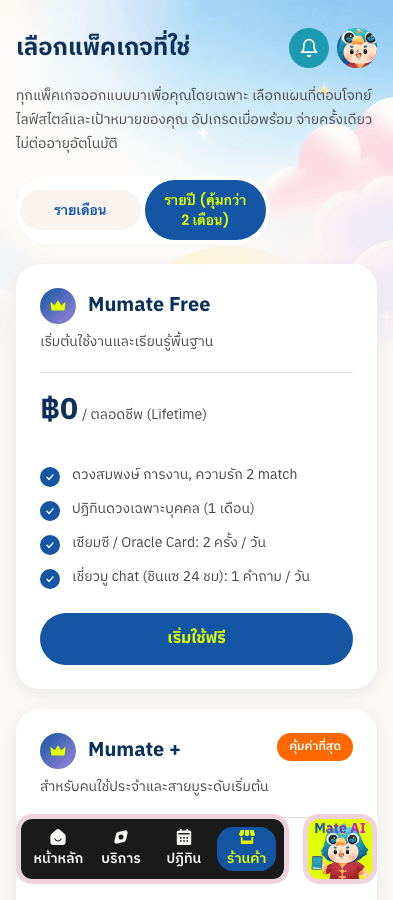
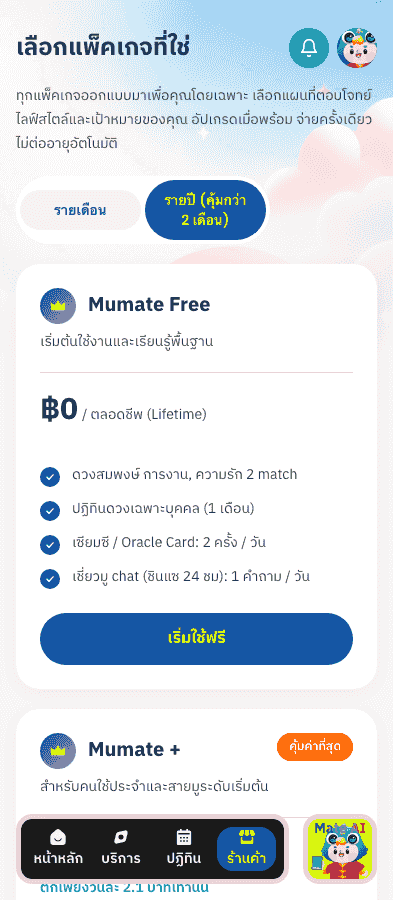
feat(#359): ต่อกับแพ็กจริงของ #377 — B2/B3/B4 ปลดล็อกครบ
rebase มาบน #377 แล้วพบว่าโจทย์เปลี่ยน: tier ย้ายจาก map ในโค้ดไปอยู่ใน
payment_package.tier_code และมีแพ็กจริง 4 แถว (lib/db/0009_package_tier.sql:97-100)

  V2_PLUS_YEARLY   ฿790    1Y  PLUS  is_active=true
  V2_PRO_YEARLY    ฿1,590  1Y  PRO   is_active=true
  V2_PLUS_MONTHLY  ฿0      1M  PLUS  is_active=false
  V2_PRO_MONTHLY   ฿0      1M  PRO   is_active=false

⇒ B2 (การ์ด Pro ไม่มี code) · B3 (ไม่มีคู่ month/year) · B4 (ไม่มีราคาจริง) จบทั้งสามข้อ
  และราคารายปีคือเลขเดียวกับที่ดีไซน์วาดไว้เป๊ะ — "ตกเพียงวันละ 4.3 บาท" ของ Pro
  คำนวณจาก 1590/365 ได้ 4.3 ตรงกับที่ดีไซน์เขียน

🔴 "ซื้อได้ไหม" กลายเป็น RUNTIME fact — จอต้องอ่าน is_active
  V2_*_MONTHLY มี amount = 0 ⇒ จอที่ดูแต่ตัวเลขจะพิมพ์ "฿0 / เดือน" ให้ของที่
  quotePackage ปฏิเสธตั้งแต่ก่อนคิดราคา (catalog.ts:74-76) = โฆษณาของที่ซื้อไม่ได้
  ⇒ usePackagePrice เพิ่มสถานะ `offSale` แยกจาก missing/error
  ⇒ ลิงก์ checkout ผูกกับ price.kind === 'ready' ❌ ไม่ใช่กับการมี package_code

🔴 SEMANTIC CONFLICT ที่ git มองไม่เห็น
  rebase ผ่านสะอาด (คนละไฟล์) และ `tsc --noEmit` เขียว — แต่เทสต์ผม import
  PACKAGE_TIER ที่ #377 ลบทิ้งไปแล้ว · tsc เขียวเพราะ tsconfig exclude scripts/
  ซึ่งคือใบ #351 พอดี ⇒ ตัวเดียวที่จับได้คือ `npm test`
  ⇒ MS5 เขียนใหม่ให้อ่าน migration ตรงๆ (แหล่งเดียวกับที่ DB ถูกสร้าง) ❌ ไม่ใช่ fixture
     + ตัวอ่านเองก็เป็นด่าน: ถ้า parse ได้ 0 แถว ทุก assert ข้างล่างจะผ่านเหนือของว่าง
     ⚠ regex รอบแรกใช้ [^)] แล้วพังเพราะ description มีวงเล็บ ('Mumate + (รายปี)')
[…]

diff --git a/scripts/shop-package-mapping.test.ts b/scripts/shop-package-mapping.test.ts
@@ -21,7 +21,35 @@ import {
   checkoutHrefFor,
   type BillingPeriod,
 } from '@/features/v2-shop/packages'
-import { PACKAGE_TIER } from '@/lib/payment/catalog'
+import { readFileSync } from 'node:fs'
+import { join } from 'node:path'
+
+// 📌 #377 moved tiers out of a hardcoded PACKAGE_TIER map and into payment_package.tier_code, so there is
+// no longer a constant to import. The money-lane fact now lives in the MIGRATION, and that is what this
+// spec reads — the same source the DB is built from. It is deliberately not a fixture: a fixture would
+// freeze today's rows and stop biting the day someone edits the migration.
+//
+// 🔴 This was a SEMANTIC conflict, not a textual one: the rebase onto #377 merged cleanly (different
+// files) and `tsc --noEmit` stayed green — because tsconfig excludes scripts/ (see mootech-fe#351). The
+// only thing that caught the broken import was `npm test`.
+const MIGRATION = readFileSync(join(process.cwd(), 'lib/db/0009_package_tier.sql'), 'utf8')
+
+/** package_code → tier_code, read out of the INSERT … VALUES block of 0009. */
+function migrationRows(): Map<string, { tier: string; active: boolean }> {
+  const rows = new Map<string, { tier: string; active: boolean }>()
+  // Line-based on purpose: each VALUES row is one line, and the `description` column contains parentheses
+  // ('Mumate + (รายปี)'), which makes any `[^)]` span stop in the wrong place. Caught by this spec's own
+  // "the parser is a gate too" assertion rather than by a wrong answer.
+  for (const line of MIGRATION.split('\n')) {
+    const code = /'(V2_[A-Z0-9_]+)'/.exec(line)?.[1]
+    if (!code) continue
+    const tier = /'(FREE|PLUS|PRO)'/.exec(line)?.[1]
+    const active = /,\s*(true|false)\s*\)/.exec(line)?.[1]
+    if (!tier || !active) continue
+    rows.set(code, { tier, active: active === 'true' })
+  }
+  return rows
+}
 
 const PERIODS: BillingPeriod[] = ['monthly', 'annual']
 const planBy = (id: string) => {
@@ -48,8 +76,10 @@ describe('#359 shop plan catalogue', () => {
   // MS1 — swapping two cards' codes must redden. Asserting a per-plan expected code (not "all codes are
   // distinct"): distinctness survives a swap, which is exactly the bug the ticket asks the mutant to catch.
   it('each plan keeps its OWN package_code', () => {
-    expect(codeFor(planBy('plus'), 'monthly')).toBe('MONTHLY')
-    expect(codeFor(planBy('pro'), 'monthly')).not.toBe('MONTHLY')
+    expect(codeFor(planBy('plus'), 'annual')).toBe('V2_PLUS_YEARLY')
+    expect(codeFor(planBy('pro'), 'annual')).toBe('V2_PRO_YEARLY')
+    expect(codeFor(planBy('plus'), 'monthly')).toBe('V2_PLUS_MONTHLY')
+    expect(codeFor(planBy('pro'), 'monthly')).toBe('V2_PRO_MONTHLY')
     expect(codeFor(planBy('free'), 'monthly')).toBeNull()
   })
 
@@ -66,9 +96,9 @@ describe('#359 shop plan catalogue', () => {
   // MS3 — the href must carry the code the card sells, url-encoded.
   it('a sellable card links to checkout carrying its own code', () => {
     const plus = planBy('plus')
-    const href = checkoutHrefFor(plus, 'monthly')
-    expect(href).toBe('/v2/shop/checkout?package_code=MONTHLY')
-    expect(href).toContain(codeFor(plus, 'monthly') as string)
+    const href = checkoutHrefFor(plus, 'annual')
+    expect(href).toBe('/v2/shop/checkout?package_code=V2_PLUS_YEARLY')
+    expect(href).toContain(codeFor(plus, 'annual') as string)
   })
 
   // MS4 — "no code yet" must not read as sellable. Today this is Pro (#359 B2) and every annual code
@@ -87,20 +117,36 @@ describe('#359 shop plan catalogue', () => {
     expect(checked, 'no not-yet-sellable combination was exercised').toBeGreaterThan(0)
   })
 
-  // MS5 — the screen must never advertise a code the money lane refuses to sell.
-  it('every package_code the screen sells is one lib/payment/catalog.ts can map', () => {
-    let sold = 0
+  // MS5 — the screen must never advertise a package_code that does not exist in the DB, or one whose tier
+  // is not a paid tier. Either would throw UnsellablePackageError at lib/payment/catalog.ts:78-81 — i.e.
+  // the user taps, and the failure happens at the till.
+  it('every package_code the screen declares exists in the migration with a paid tier', () => {
+    const rows = migrationRows()
+    // The parser is a gate too: if it matched nothing, every assertion below would pass over zero items.
+    expect(rows.size, 'อ่านแถวจาก 0009_package_tier.sql ไม่ได้เลย — ตัวอ่านพัง ไม่ใช่ข้อมูลว่าง').toBe(4)
+
+    let declared = 0
     for (const p of PLANS) {
       for (const period of PERIODS) {
         const code = codeFor(p, period)
         if (code === null) continue
-        sold++
-        expect(
-          PACKAGE_TIER[code],
-          `${p.id}/${period} sells ${code}, which catalog.ts cannot map — quotePackage would throw`,
-        ).toBeDefined()
+        declared++
+        const row = rows.get(code)
+        expect(row, `${p.id}/${period} sells ${code}, which 0009 never inserts`).toBeDefined()
+        expect(row!.tier, `${code} has tier ${row!.tier} — not a paid tier`).not.toBe('FREE')
       }
     }
-    expect(sold, 'no sellable code was exercised — this gate answered over zero items').toBeGreaterThan(0)
+    expect(declared, 'no declared code was exercised — this gate answered over zero items').toBeGreaterThan(0)
+  })
+
+  // 🔴 The screen must not decide "buyable" from this file alone. is_active is flipped from /ops without a
+  // deploy (#377), so it is a RUNTIME fact — asserted here only to record which rows ship switched off, so
+  // that a migration change that silently turns the monthly pair on is visible in a diff.
+  it('บันทึกไว้ว่าแถวไหน ship มาแบบปิดขาย — และจอต้องไม่ตัดสินจากไฟล์นี้', () => {
+    const rows = migrationRows()
+    expect(rows.get('V2_PLUS_YEARLY')?.active, 'รายปี PLUS ควรเปิดขาย').toBe(true)
+    expect(rows.get('V2_PRO_YEARLY')?.active, 'รายปี PRO ควรเปิดขาย').toBe(true)
+    expect(rows.get('V2_PLUS_MONTHLY')?.active, 'รายเดือน PLUS ship มาแบบปิดขาย').toBe(false)
+    expect(rows.get('V2_PRO_MONTHLY')?.active, 'รายเดือน PRO ship มาแบบปิดขาย').toBe(false)
   })
 })

diff --git a/features/v2-shop/packages.ts b/features/v2-shop/packages.ts
@@ -5,11 +5,21 @@
 // time (`pages/api/payment-package.ts:12-14` — WHERE package_code = $code LIMIT 1); there is no list
 // endpoint, so the screen must know which codes to ask for. Codes are identity, not price.
 //
-// 🔴 A plan with no sellable code is NOT hidden and NOT silently broken — it renders with
-// `sellable: false` and the card refuses to send the user to checkout (see PackageCard). Reason:
-// `lib/payment/catalog.ts:35-43` maps every code that exists today to 'PLUS'; nothing maps to 'PRO', and
-// `catalog.ts:79-82` throws UnsellablePackageError for an unmapped code. Wiring the Pro card to checkout
-// today would charge the user's tap into a guaranteed error. Blocked on mootech-fe#359 (B2, ฟีม's call).
+// 🔴 A plan with no sellable code is NOT hidden and NOT silently broken — it renders, it says why, and the
+// card refuses to send the user to checkout (see PackageCard). `quotePackage` refuses a package that is
+// `is_active = false` BEFORE pricing it (lib/payment/catalog.ts:74-76) and refuses one whose tier is not a
+// paid tier (`:78-81`) — both throw UnsellablePackageError, i.e. a failure at the till, after the user
+// believed they were buying. The screen must not lead anyone there.
+//
+// 📌 UPDATED after #377 merged (2026-08-22): tiers moved OUT of a hardcoded map and into
+// `payment_package.tier_code`, and four real v2 rows landed (lib/db/0009_package_tier.sql:94-104):
+//     V2_PLUS_YEARLY   ฿790   1Y  PLUS  is_active=true
+//     V2_PRO_YEARLY   ฿1590   1Y  PRO   is_active=true
+//     V2_PLUS_MONTHLY    ฿0   1M  PLUS  is_active=false
+//     V2_PRO_MONTHLY     ฿0   1M  PRO   is_active=false
+// ⇒ B2 is unblocked: the Pro card HAS a sellable code now, and the annual prices are the design's own
+//   ฿790 / ฿1,590. The monthly pair exists but is switched off and priced at 0 — the screen must read
+//   `is_active`, or it would advertise "฿0 / เดือน" for something nobody can buy.
 //
 // 🔴 Names: ฟีม decided 2026-08-21 — the SCREEN says `Mumate +` / `Mumate Pro` everywhere, including the
 // button. The Figma buttons say `PLUS` / `PRO`; we deliberately diverge (recorded in the PR's
@@ -39,9 +49,10 @@ export type Plan = {
   badge?: { label: string; tone: 'pumpkin' | 'error' }
 }
 
-// ⚠ MONTHLY is the only code `lib/payment/catalog.ts` sells today. The annual/monthly split and the Pro
-// codes are marketing's call (#359 B3/B4). Adding them here is a one-line change per plan — the mapping
-// test (scripts/shop-package-mapping.test.ts) keeps its teeth either way.
+// The codes below must exist in payment_package with a paid tier — scripts/shop-package-mapping.test.ts
+// asserts that against the migration itself, so a typo here reddens `npm test` rather than reaching a user.
+// Whether a code is CURRENTLY on sale is a DB fact that changes from /ops without a deploy (#377) ⇒ the
+// screen reads it at runtime from /api/payment-package, never from this file.
 export const PLANS: readonly Plan[] = [
   {
     id: 'free',
@@ -65,7 +76,7 @@ export const PLANS: readonly Plan[] = [
       'เชี่ยวมู chat (ชินแซ 24 ชม): 5 คำถาม / วัน',
       'เซียมซี / Oracle Card: 10 ครั้ง / วัน',
     ],
-    codes: { monthly: 'MONTHLY', annual: null },
+    codes: { monthly: 'V2_PLUS_MONTHLY', annual: 'V2_PLUS_YEARLY' },
     badge: { label: 'คุ้มค่าที่สุด', tone: 'pumpkin' },
   },
   {
@@ -79,7 +90,7 @@ export const PLANS: readonly Plan[] = [
       'ปฏิทินดวงเฉพาะบุคคล ไม่จำกัด (Unlimited)',
       'เชี่ยวมู chat (ชินแซ 24 ชม): ไม่จำกัด (Unlimited)',
     ],
-    codes: { monthly: null, annual: null },
+    codes: { monthly: 'V2_PRO_MONTHLY', annual: 'V2_PRO_YEARLY' },
     badge: { label: 'แนะนำ 🔥', tone: 'error' },
   },
 ]

diff --git a/features/v2-shop/components/PackageCard.tsx b/features/v2-shop/components/PackageCard.tsx
@@ -74,7 +74,11 @@ export function PackageCard({
 }) {
   const code = codeFor(plan, period)
   const price = usePackagePrice(plan.id === 'free' ? null : code)
-  const href = checkoutHrefFor(plan, period)
+  // 🔴 "Can this be bought?" is a RUNTIME fact after #377: a package_code exists in this file, but whether
+  // it is on sale lives in payment_package.is_active and is flipped from /ops without a deploy. So the link
+  // needs BOTH — a declared code AND a server row that is actually ready. Deciding from the code alone
+  // would send a tap into UnsellablePackageError('not on sale') at lib/payment/catalog.ts:74-76.
+  const href = price.kind === 'ready' ? checkoutHrefFor(plan, period) : null
   // Two spellings on purpose, both taken from the frame: the price block sets the unit off from the amount
   // ("฿790 / ปี"), the button runs them together ("฿790/ปี"). One shared string would be wrong in one of
   // the two places, and the rendered-text audit is what caught it (the button read "฿790/ เดือน").
@@ -125,8 +129,10 @@ export function PackageCard({
           // Our outage — say so. Do not let it read as "this plan costs nothing" or "you did something wrong".
           <p className="text-sm leading-5 text-v3-error">ตอนนี้เราดึงราคาไม่ได้ ลองใหม่อีกครั้งได้เลย</p>
         ) : (
-          // unsellable | missing — the plan is real, the price is not on sale yet.
-          <p className="text-sm leading-5 text-v3-text-body">ยังไม่เปิดขายแพ็กเกจนี้</p>
+          // unsellable | missing | offSale — the plan is real, this billing period is not for sale.
+          <p className="text-sm leading-5 text-v3-text-body">
+            {period === 'annual' ? 'ยังไม่เปิดขายแพ็กเกจนี้' : 'ยังไม่เปิดขายแบบรายเดือน'}
+          </p>
         )}
       </div>
 
@@ -149,7 +155,12 @@ export function PackageCard({
           </Link>
         ) : href !== null ? (
           <Link href={href} data-testid={`plan-cta-${plan.id}`} className="block rounded-full">
-            <Button variant="primary" size="full" tabIndex={-1}>
+            {/* 🔴 normal-case overrides Button's uppercase (button.tsx:131) for THIS label only.
+                ฟีมเคาะ 2026-08-21 ว่าปุ่มต้องเขียน `Mumate +` / `Mumate Pro` ❌ ไม่ใช่ `PLUS` / `PRO`
+                — แต่ปุ่ม primary บังคับ uppercase ⇒ พิกเซลออกมาเป็น `MUMATE +` ซึ่งย้อนกลับไปใกล้สิ่งที่
+                คำตัดสินนั้นสั่งไม่ให้ใช้ · textContent เขียว (มันเก็บ `Mumate +` ไว้ครบ) — จับได้จากภาพ
+                ที่ render จริงเท่านั้น ตระกูลเดียวกับ "ข้อความถูก แต่ตัดบรรทัดผิด" ของ #326 */}
+            <Button variant="primary" size="full" tabIndex={-1} className="normal-case">
               {`สมัครแพ็กเกจ ${plan.name} ${price.kind === 'ready' ? `${formatThb(price.amountThb)}${buttonSuffix}` : ''}`.trim()}
             </Button>
           </Link>

diff --git a/e2e/v2-shop.spec.ts b/e2e/v2-shop.spec.ts
@@ -22,12 +22,19 @@ const TAPPABLE = "button, a, input, [role=button]";
 async function openShop(page: Page) {
   await page.context().addCookies([{ name: "v2_access", value: V2_KEY, url: BASE }]);
   // The price row comes from a DB this harness does not have — mock the CONTRACT, not the screen.
+  // Mirrors lib/db/0009_package_tier.sql:97-100 exactly — including the two rows that ship SWITCHED OFF at
+  // amount 0. A mock that only returned the sellable rows would hide the bug this screen must not have:
+  // printing "฿0 / เดือน" for a package the server refuses to sell.
+  const ROWS: Record<string, { amount: number; expire: string; is_active: boolean }> = {
+    V2_PLUS_YEARLY: { amount: 790, expire: "1Y", is_active: true },
+    V2_PRO_YEARLY: { amount: 1590, expire: "1Y", is_active: true },
+    V2_PLUS_MONTHLY: { amount: 0, expire: "1M", is_active: false },
+    V2_PRO_MONTHLY: { amount: 0, expire: "1M", is_active: false },
+  };
   await page.context().route("**/api/payment-package**", (route) => {
-    const code = new URL(route.request().url()).searchParams.get("code");
-    const row =
-      code === "MONTHLY"
-        ? { package_code: "MONTHLY", amount: 790, expire: "1Y", buffer_day: 0 }
-        : null;
+    const code = new URL(route.request().url()).searchParams.get("code") ?? "";
+    const r = ROWS[code];
+    const row = r ? { package_code: code, buffer_day: 0, ...r } : null;
     route.fulfill({ status: 200, contentType: "application/json", body: JSON.stringify(row) });
   });
   await page.goto(`${BASE}/v2/shop`, { waitUntil: "networkidle" });
@@ -140,13 +147,12 @@ test.describe("#359 /v2/shop", () => {
 
   test("กดการ์ดที่ขายได้ → ถึง checkout พร้อม package_code ที่ถูกตัว", async ({ page }) => {
     await openShop(page);
-    // The only sellable code today is MONTHLY (lib/payment/catalog.ts:35-43) ⇒ switch to รายเดือน.
-    await page.getByRole("radio", { name: /รายเดือน/ }).click();
+    // รายปี is the screen's default AND the pair that ships on sale (0009:97-98) ⇒ no toggling needed.
     await page.getByTestId("plan-cta-plus").click();
     // The checkout PAGE belongs to #363 and does not exist yet — assert the destination we send them to,
     // not that it renders. Recorded in the PR as an explicitly Pending lane.
-    await page.waitForURL(/\/v2\/shop\/checkout\?package_code=MONTHLY/);
-    expect(new URL(page.url()).searchParams.get("package_code")).toBe("MONTHLY");
+    await page.waitForURL(/\/v2\/shop\/checkout\?package_code=V2_PLUS_YEARLY/);
+    expect(new URL(page.url()).searchParams.get("package_code")).toBe("V2_PLUS_YEARLY");
   });
 
   test("ปุ่มของแพ็กฟรีไม่พาไปหน้าจ่ายเงิน", async ({ page }) => {

diff --git a/features/v2-shop/usePackagePrice.ts b/features/v2-shop/usePackagePrice.ts
@@ -20,6 +20,13 @@ export type PriceState =
   | { kind: 'ready'; amountThb: number }
   /** The server answered 200 with `null` — the code has no row. A data gap, not our outage. */
   | { kind: 'missing' }
+  /**
+   * The row exists but `is_active = false` — switched off from /ops (#377), not broken and not missing.
+   * 🔴 This state MUST be distinct from `ready`: V2_PLUS_MONTHLY and V2_PRO_MONTHLY carry `amount = 0`
+   * today (lib/db/0009_package_tier.sql:99-100), so a screen that only looked at the amount would print
+   * "฿0 / เดือน" for something `quotePackage` refuses to sell at all (lib/payment/catalog.ts:74-76).
+   */
+  | { kind: 'offSale' }
   /** The request itself failed (network / 5xx). Ours to apologise for, not the user's fault. */
   | { kind: 'error' }
 
@@ -41,7 +48,7 @@ export function usePackagePrice(code: string | null): PriceState {
       .then(async (res) => {
         // A non-2xx is our failure, not a data gap: keep them apart so the card can too.
         if (!res.ok) throw new Error(`payment-package ${res.status}`)
-        return (await res.json()) as { amount?: number } | null
+        return (await res.json()) as { amount?: number; is_active?: boolean } | null
       })
       .then((row) => {
         if (!alive) return
@@ -49,6 +56,12 @@ export function usePackagePrice(code: string | null): PriceState {
         // The endpoint answers 200 + `null` for an unknown code — that is "missing", not "error".
         if (row === null || amount == null || !Number.isFinite(Number(amount))) {
           setState({ kind: 'missing' })
+          return
+        }
+        // Off-sale is checked BEFORE the amount is trusted, for the same reason the server checks it before
+        // pricing: a switched-off row's price is not a price, it is leftover data.
+        if (row.is_active === false) {
+          setState({ kind: 'offSale' })
           return
         }
         setState({ kind: 'ready', amountThb: Number(amount) })
